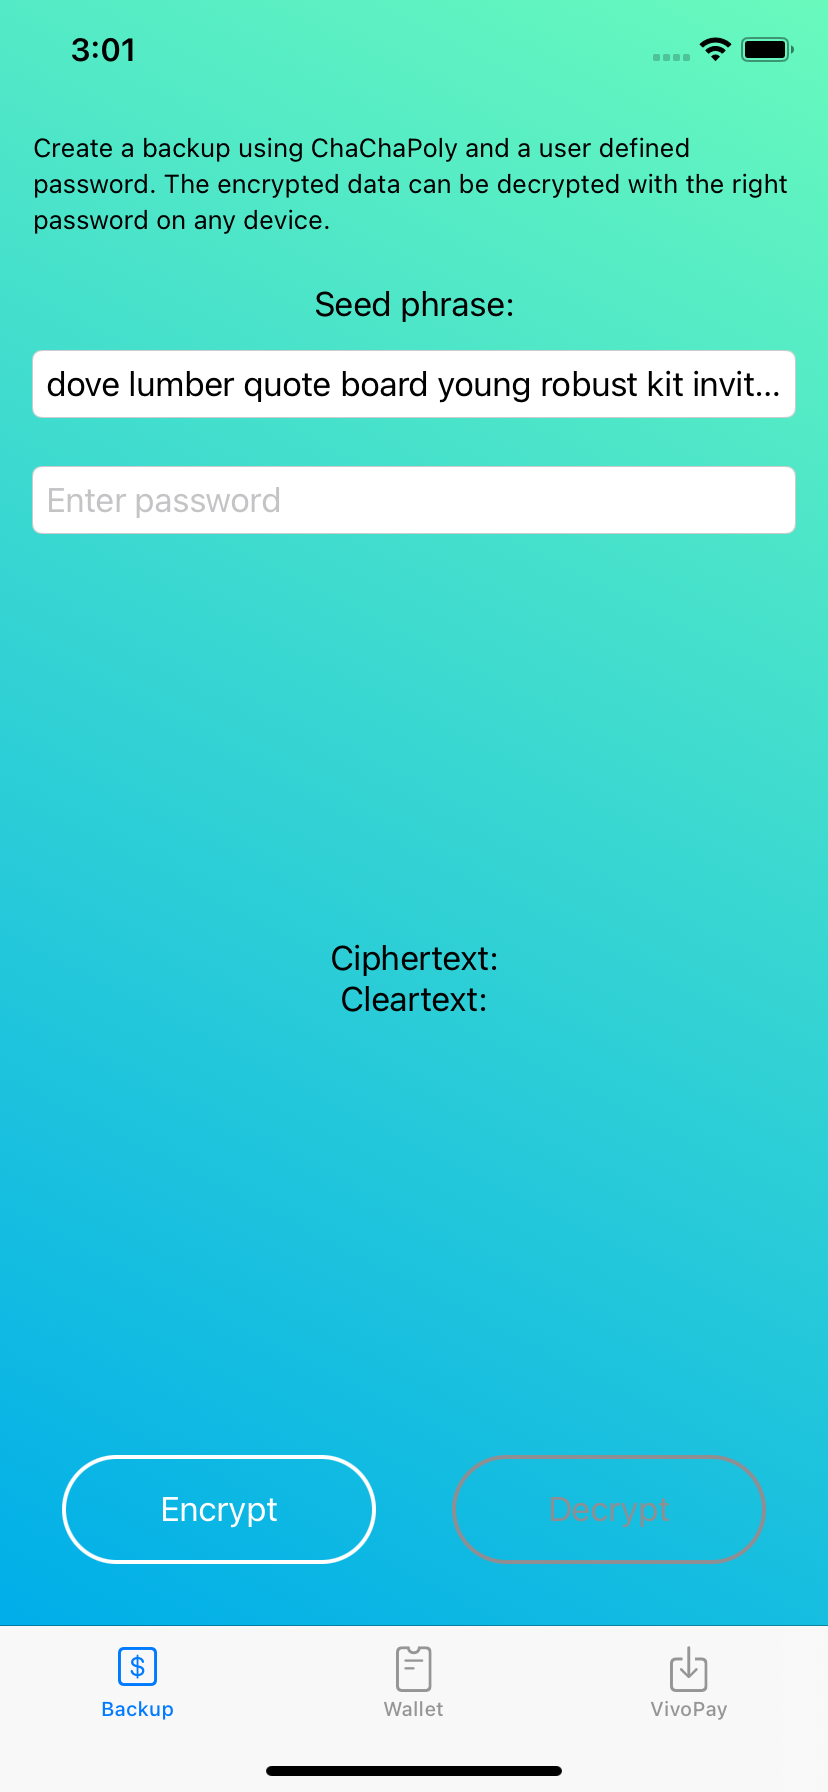
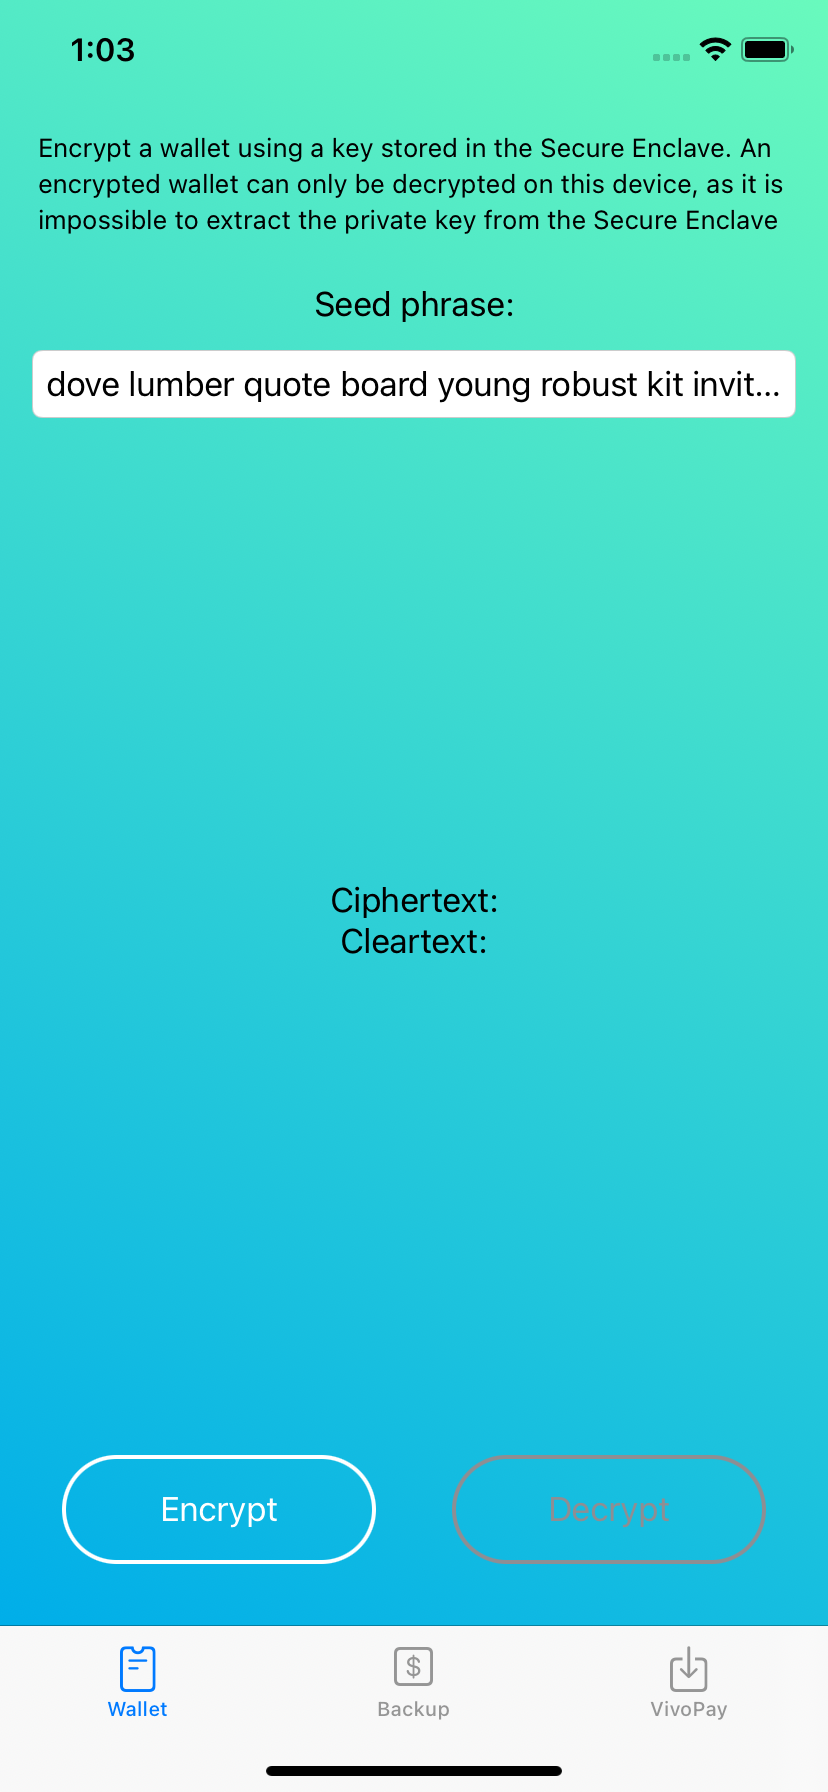
Update screenshot, switch tabs

diff --git a/Shared/ContentView.swift b/Shared/ContentView.swift
@@ -25,16 +25,16 @@ struct ContentView: View {
     var body: some View {
         
         TabView {
-            BackupView(mnemonic: $plaintext)
-                .tabItem {
-                    Image(systemName: "dollarsign.square")
-                    Text("Backup")
-                }
             WalletView(mnemonic: $plaintext)
                 .tabItem {
                     Image(systemName: "wallet.pass")
                     Text("Wallet")
                 }
+            BackupView(mnemonic: $plaintext)
+                .tabItem {
+                    Image(systemName: "dollarsign.square")
+                    Text("Backup")
+                }            
             DownloadAppView()
                 .tabItem {
                     Image(systemName: "square.and.arrow.down")

diff --git a/README.md b/README.md
@@ -1,7 +1,7 @@
 # VivoPayEncryption
 Source code and demo of the encryption used in VivoPay to store and backup wallets.
 
-![screenshot of VivoEncryption](readme/screenshot.png)
+![screenshot of VivoEncryption](readme/screenshot.png | width=400)
 
 ## Features 
 - Demonstrates how VivoPay encrypts the wallet on disk using the Secure Enclave (AES-GCM). 
